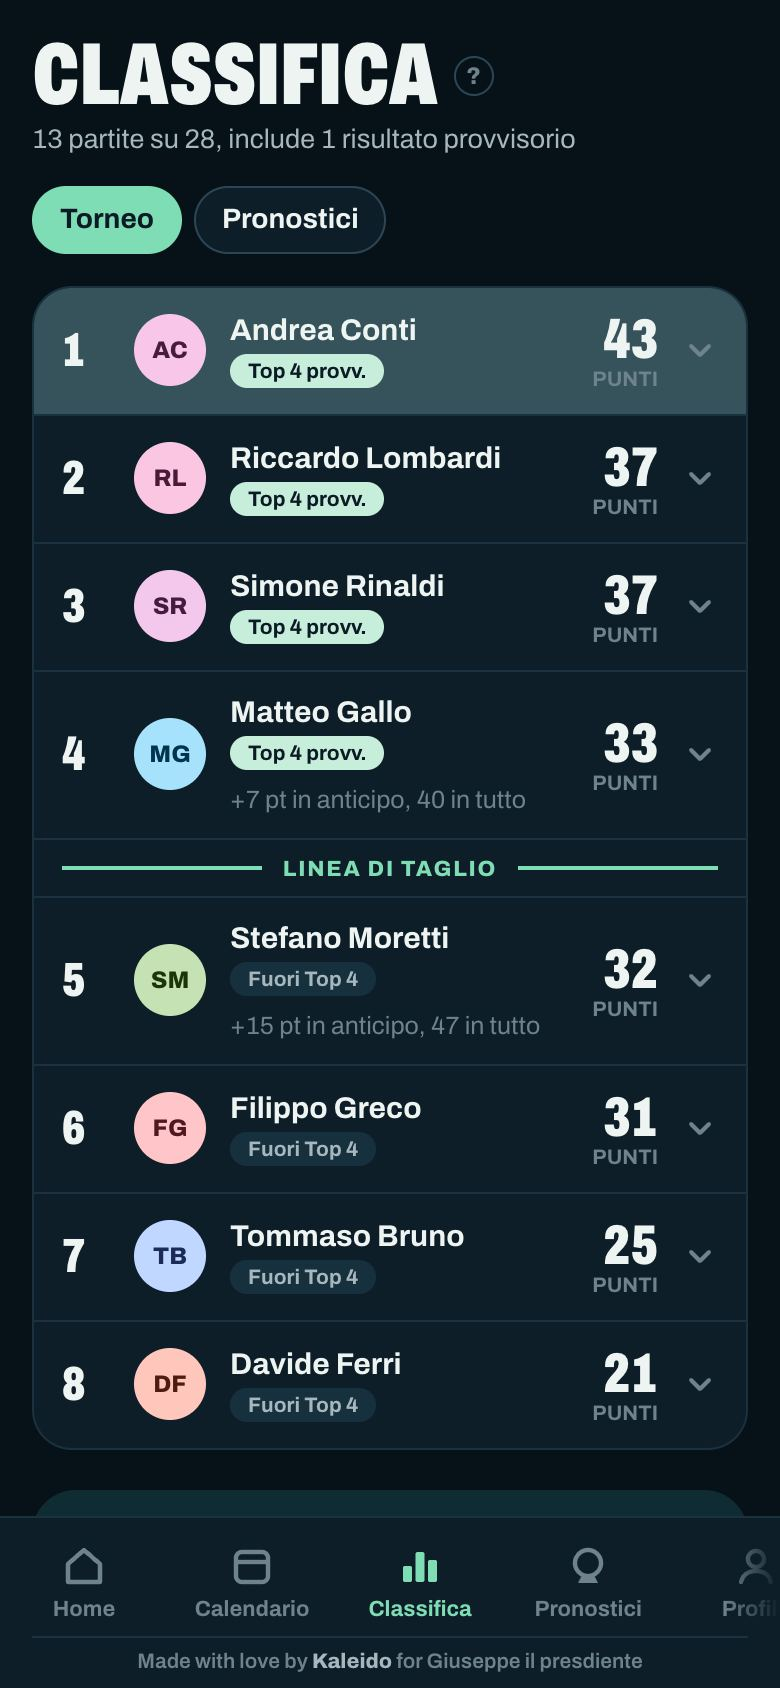
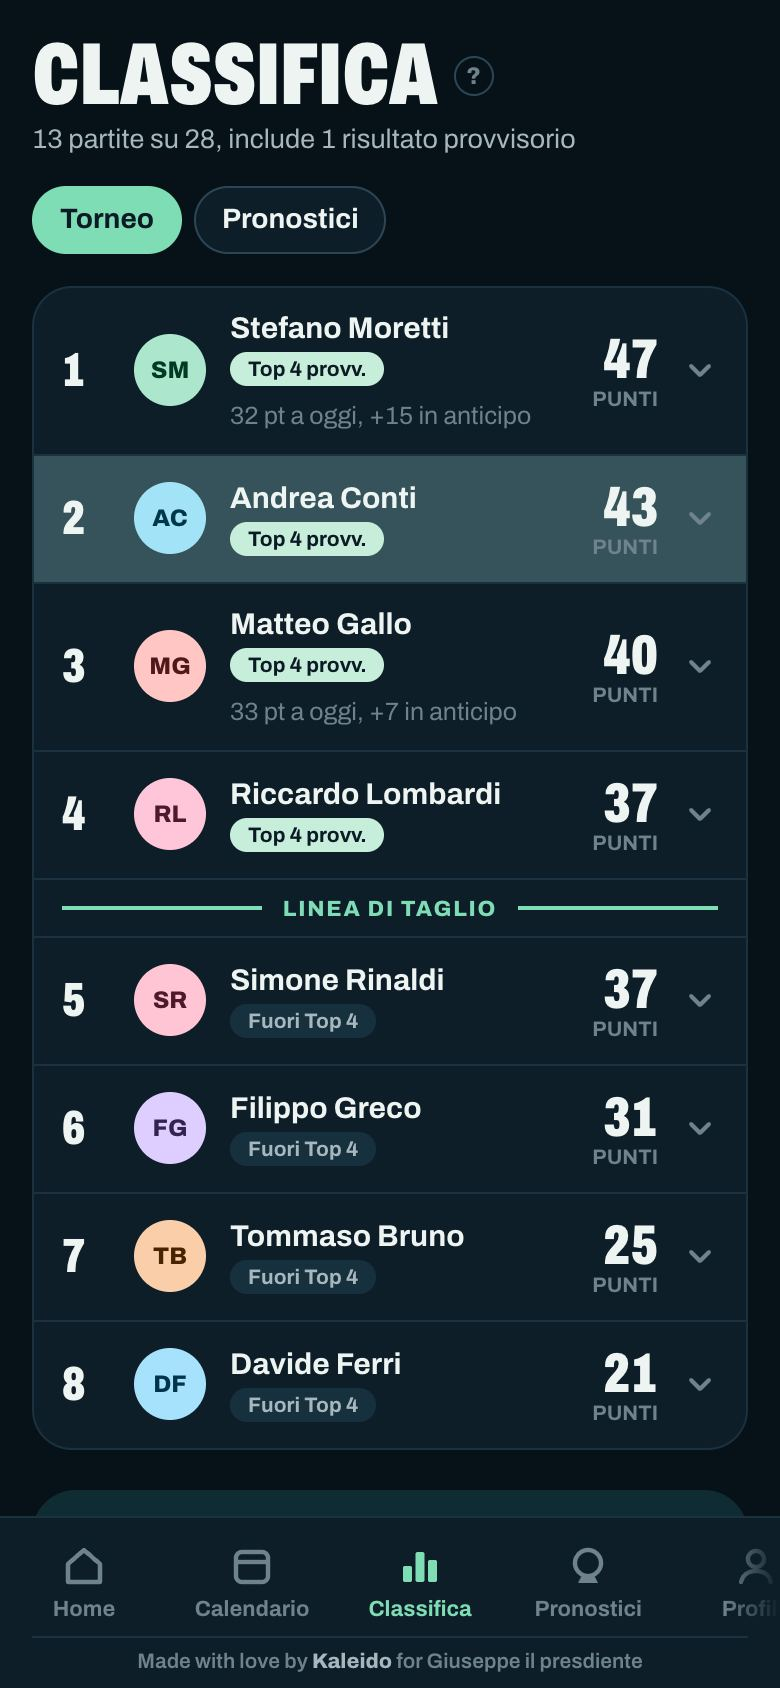
Classifica ordinata per totale, punti a oggi come seconda colonna (D-078)
Le partite giocate in anticipo contano subito in classifica, andamento e
simulatore. Finché la loro giornata non è iniziata, accanto al totale ("Tot")
compare la colonna "Pt" con i punti a oggi; nelle schede "N pt a oggi, +M in
anticipo". Guida, screenshot e brain aggiornati.

diff --git a/apps/web/src/pages/Standings.tsx b/apps/web/src/pages/Standings.tsx
@@ -37,7 +37,7 @@ export function StandingsPage() {
   const archived = data.season.status === 'ARCHIVED';
   const champion = data.season.championPlayerId ? players.get(data.season.championPlayerId) : undefined;
   const q = data.season.qualifiers;
-  // partite giocate in anticipo (D-077): fuori dall'ordine finché non inizia la loro giornata, i punti a parte
+  // partite giocate in anticipo (D-077): l'ordine è sul totale, accanto i punti "a oggi" (senza le giornate non ancora iniziate)
   const anyAhead = data.standings.some((r) => r.aheadPlayed > 0);
 
   return (
@@ -86,11 +86,11 @@ export function StandingsPage() {
                     <th style={{ textAlign: 'left', padding: '14px 10px 14px 18px' }}>#</th>
                     <th style={{ textAlign: 'left', padding: '14px 10px' }}>Giocatore</th>
                     <th style={{ padding: '14px 10px' }}>
-                      <ColumnTip label="Pt" title="Punti" />
+                      {anyAhead ? <ColumnTip label="Tot" title="Punti di tutte le partite giocate" /> : <ColumnTip label="Pt" title="Punti" />}
                     </th>
                     {anyAhead && (
                       <th style={{ padding: '14px 10px' }}>
-                        <ColumnTip label="Tot" title="Punti con le partite in anticipo" />
+                        <ColumnTip label="Pt" title="Punti a oggi, senza le partite in anticipo" />
                       </th>
                     )}
                     {COLUMNS.map((c, i) => (
@@ -117,7 +117,7 @@ export function StandingsPage() {
                         </td>
                         <td style={{ textAlign: 'center', padding: '0 10px', fontWeight: 900, fontStretch: '70%', fontSize: 20 }}>{r.points}</td>
                         {anyAhead && (
-                          <td style={{ textAlign: 'center', padding: '0 10px', color: 'var(--ink2)', fontWeight: r.aheadPlayed > 0 ? 800 : 400 }}>{r.points + r.aheadPoints}</td>
+                          <td style={{ textAlign: 'center', padding: '0 10px', color: 'var(--ink2)', fontWeight: r.aheadPlayed > 0 ? 800 : 400 }}>{r.points - r.aheadPoints}</td>
                         )}
                         {COLUMNS.map((c, i) => (
                           <td key={c.key} style={{ textAlign: 'center', color: 'var(--ink2)', padding: i === COLUMNS.length - 1 ? '0 18px 0 10px' : '0 10px' }}>
@@ -149,7 +149,7 @@ export function StandingsPage() {
                           {q > 0 && <ZonePill zone={r.zone} qualifiers={q} final={archived} />}
                           {r.aheadPlayed > 0 && (
                             <span className="faint" style={{ fontSize: 12.5 }}>
-                              +{r.aheadPoints} pt in anticipo, {r.points + r.aheadPoints} in tutto
+                              {r.points - r.aheadPoints} pt a oggi, +{r.aheadPoints} in anticipo
                             </span>
                           )}
                         </span>
@@ -190,8 +190,8 @@ export function StandingsPage() {
         </div>
         <div style={{ fontSize: 12.5, lineHeight: 1.45, color: 'rgba(255,255,255,.75)', borderTop: '1px solid rgba(255,255,255,.14)', paddingTop: 10 }}>
           Compensazione: se chi vince al super tie break ha fatto meno game, riceve la differenza. Es. 0-6 6-4 10-8: vincitore 13, sconfitto 10. A pari
-          punti conta lo scontro diretto; tra tre o più, i punti negli scontri tra loro e poi la differenza game. Una partita giocata in anticipo
-          entra in classifica quando inizia la sua giornata.{q > 0 && ` I primi ${q} vanno alla fase finale.`}
+          punti conta lo scontro diretto; tra tre o più, i punti negli scontri tra loro e poi la differenza game. Le partite giocate in anticipo
+          contano subito; senza di loro restano i punti a oggi.{q > 0 && ` I primi ${q} vanno alla fase finale.`}
         </div>
       </div>
         </>

diff --git a/packages/shared/test/standings.test.ts b/packages/shared/test/standings.test.ts
@@ -121,7 +121,7 @@ describe('spareggi', () => {
 });
 
 describe('partite giocate in anticipo (D-077)', () => {
-  // giuseppe gioca e perde in anticipo tre partite di giornate future: i game fatti non lo portano in testa
+  // giuseppe gioca e perde in anticipo tre partite di giornate future: contano subito, e hanno anche un conto a parte
   const ahead = (m: StandingsMatch): StandingsMatch => ({ ...m, ahead: true });
   const rows = computeStandings(PLAYERS, [
     match('marco', 'michele', [6, 1], [6, 3]),
@@ -131,13 +131,12 @@ describe('partite giocate in anticipo (D-077)', () => {
   ]);
   const by = (id: string) => rows.find((r) => r.playerId === id)!;
 
-  it('non contano in punti, partite e scontri diretti', () => {
-    expect(by('giuseppe')).toMatchObject({ points: 0, played: 0, gamesWon: 0, position: 3 });
-    expect(by('luca')).toMatchObject({ points: 0, played: 0 });
-    expect(by('marco')).toMatchObject({ points: 15, position: 1 });
+  it('contano in classifica come le altre', () => {
+    expect(by('giuseppe')).toMatchObject({ points: 24, played: 3, lost: 3, position: 1 });
+    expect(by('marco')).toMatchObject({ points: 15 });
   });
 
-  it('i loro punti restano a parte', () => {
+  it('i loro punti si contano anche a parte, per i punti a oggi', () => {
     expect(by('giuseppe')).toMatchObject({ aheadPlayed: 3, aheadPoints: 24 });
     expect(by('luca')).toMatchObject({ aheadPlayed: 1, aheadPoints: 15 });
     expect(by('marco')).toMatchObject({ aheadPlayed: 0, aheadPoints: 0 });

diff --git a/apps/web/src/pages/Guide.tsx b/apps/web/src/pages/Guide.tsx
@@ -137,7 +137,7 @@ const SECTIONS: Section[] = [
     images: ['classifica'],
     body: (
       <p>
-        I giocatori in ordine di punti. A pari punti conta lo scontro diretto; tra tre o più, i punti negli scontri tra loro e poi la differenza game. Una partita giocata in anticipo, prima della settimana della sua giornata, entra in classifica quando quella settimana inizia: fino ad allora i suoi punti si vedono a parte (“+ pt in anticipo” e, su computer, la colonna “Tot”). Tocca un giocatore per vedere i dettagli. La linea segna chi andrebbe alla fase finale. In alto puoi passare alla classifica dei{' '}
+        I giocatori in ordine di punti. A pari punti conta lo scontro diretto; tra tre o più, i punti negli scontri tra loro e poi la differenza game. Una partita giocata in anticipo, prima della settimana della sua giornata, conta subito; finché quella settimana non inizia vedi anche i punti “a oggi”, senza le partite in anticipo (sotto il nome e, su computer, nella colonna “Pt” accanto al totale “Tot”). Tocca un giocatore per vedere i dettagli. La linea segna chi andrebbe alla fase finale. In alto puoi passare alla classifica dei{' '}
         <a href="#pronostici">pronostici</a>.
       </p>
     ),

diff --git a/apps/web/src/data.ts b/apps/web/src/data.ts
@@ -174,19 +174,13 @@ export function playedOn(m: Match, rounds: Round[]): string | null {
   return endsOn && endsOn < submitted ? endsOn : submitted;
 }
 
-/** Partita della giornata non ancora iniziata (giocata in anticipo): fuori classifica finché non arriva la sua settimana (D-077) */
-export function isAhead(m: Pick<Match, 'round' | 'phase'>, data: Pick<SeasonOverview, 'rounds' | 'season'>) {
-  const startsOn = data.rounds.find((r) => r.number === m.round && r.phase === m.phase)?.startsOn;
-  return data.season.status === 'ACTIVE' && !!startsOn && startsOn > today();
-}
-
 /** Classifica a fine di ogni giornata del girone iniziata finora (D-064) */
 export function timelineFor(data: SeasonOverview) {
   const matches = data.matches.flatMap((m) => {
     const r = m.result;
     const day = playedOn(m, data.rounds);
     return m.phase === 'ROUND_ROBIN' && r && day && COUNTS_IN_STANDINGS.includes(r.status)
-      ? [{ playerAId: m.playerAId, playerBId: m.playerBId, score: r, playedOn: day, roundStartsOn: data.rounds.find((x) => x.number === m.round && x.phase === m.phase)?.startsOn }]
+      ? [{ playerAId: m.playerAId, playerBId: m.playerBId, score: r, playedOn: day }]
       : [];
   });
   return standingsTimeline(

diff --git a/apps/web/src/pages/ScheduleSheet.tsx b/apps/web/src/pages/ScheduleSheet.tsx
@@ -65,7 +65,7 @@ export function ScheduleSheet({
 
   const date = otherOn ? otherDate || null : day;
   const outside = !!date && date > round.endsOn;
-  // prima della settimana si può (partita anticipata): conta in classifica da quando inizia la sua giornata (D-077)
+  // prima della settimana si può: partita in anticipo (D-077)
   const ahead = !!date && date < round.startsOn;
   const place = venueOn ? venue.trim().length >= 2 : !!clubId;
   // superfici tra cui scegliere: quelle del circolo; con un campo fuori lista tutte (facoltativa)
@@ -146,7 +146,7 @@ export function ScheduleSheet({
             )}
           </div>
           {outside && <div className="note note-warn">È dopo la settimana della giornata {round.number}: la partita risulterà rinviata.</div>}
-          {ahead && <div className="note note-info">Partita in anticipo: conta in classifica da {formatDayWithWeekday(round.startsOn)}, quando inizia la giornata {round.number}.</div>}
+          {ahead && <div className="note note-info">Partita in anticipo: la giornata {round.number} inizia {formatDayWithWeekday(round.startsOn)}.</div>}
         </div>
 
         <div style={{ display: 'flex', flexDirection: 'column', gap: 8 }}>

diff --git a/packages/shared/src/standings.ts b/packages/shared/src/standings.ts
@@ -9,8 +9,8 @@ export interface StandingsMatch {
   playerBId: string;
   score: MatchScoreInput;
   /**
-   * giocata in anticipo, prima che inizi la sua giornata (D-077): non conta in classifica
-   * finché non arriva la sua settimana; i punti finiscono solo in `aheadPoints`
+   * giocata in anticipo, prima che inizi la sua giornata (D-077): conta in classifica come le altre,
+   * e i suoi punti si contano anche in `aheadPoints` (i punti "a oggi" sono `points - aheadPoints`)
    */
   ahead?: boolean;
 }
@@ -32,9 +32,9 @@ export interface StandingRow {
   /** bonus vittoria + compensazioni */
   bonus: number;
   zone: Zone;
-  /** partite giocate in anticipo, non ancora in classifica (D-077) */
+  /** partite giocate in anticipo, di giornate non ancora iniziate (D-077), già comprese nei totali */
   aheadPlayed: number;
-  /** punti di quelle partite: con `points` fanno i punti di tutte le partite giocate */
+  /** punti di quelle partite, già compresi in `points` */
   aheadPoints: number;
 }
 
@@ -94,7 +94,6 @@ export function computeStandings(
       b.aheadPlayed++;
       a.aheadPoints += ev.pointsA;
       b.aheadPoints += ev.pointsB;
-      continue;
     }
 
     a.played++;

diff --git a/packages/shared/src/timeline.ts b/packages/shared/src/timeline.ts
@@ -5,8 +5,6 @@ import { computeStandings, type StandingRow, type StandingsMatch } from './stand
 export interface TimelineMatch extends StandingsMatch {
   /** giorno in cui si è giocata (YYYY-MM-DD) */
   playedOn: string;
-  /** primo giorno della sua giornata: una partita giocata in anticipo conta da lì (D-077) */
-  roundStartsOn?: string;
 }
 
 export interface TimelinePoint {
@@ -17,7 +15,7 @@ export interface TimelinePoint {
 /**
  * Classifica a fine giornata, per le giornate già iniziate (`today` compreso).
  * Conta le partite giocate entro la fine della settimana, qualunque sia la loro giornata: un recupero
- * pesa nella settimana in cui si gioca, una partita in anticipo in quella della sua giornata.
+ * (o un anticipo) pesa nella settimana in cui si gioca.
  */
 export function standingsTimeline(
   playerIds: string[],
@@ -33,7 +31,7 @@ export function standingsTimeline(
       round: r.number,
       rows: computeStandings(
         playerIds,
-        matches.filter((m) => m.playedOn <= r.endsOn && (!m.roundStartsOn || m.roundStartsOn <= r.endsOn)),
+        matches.filter((m) => m.playedOn <= r.endsOn),
         { qualifiers },
       ),
     }));

diff --git a/apps/web/src/components/Simulator.tsx b/apps/web/src/components/Simulator.tsx
@@ -3,7 +3,7 @@
 import { useState } from 'react';
 import { COUNTS_IN_STANDINGS, evaluateMatch, SCENARIOS, scenarioScore, standingsIf } from '@tentennis/shared';
 import type { Match, SeasonOverview } from '../api';
-import { isAhead, opponentOf, playerIndex } from '../data';
+import { opponentOf, playerIndex } from '../data';
 import { Avatar, Collapse } from './ui';
 
 /** Freccia e numero di posizioni guadagnate o perse */
@@ -22,7 +22,7 @@ export function Simulator({ match, data, myId }: { match: Match; data: SeasonOve
   const opts = { qualifiers: data.season.qualifiers };
   const played = data.matches
     .filter((m) => m.phase === 'ROUND_ROBIN' && m.result && COUNTS_IN_STANDINGS.includes(m.result.status))
-    .map((m) => ({ playerAId: m.playerAId, playerBId: m.playerBId, score: m.result!, ahead: isAhead(m, data) }));
+    .map((m) => ({ playerAId: m.playerAId, playerBId: m.playerBId, score: m.result! }));
   const now = (id: string) => data.standings.find((r) => r.playerId === id)!;
 
   const rows = SCENARIOS.map((s) => {

diff --git a/apps/api/src/routes/admin-seasons.ts b/apps/api/src/routes/admin-seasons.ts
@@ -141,8 +141,7 @@ export async function adminSeasonRoutes(app: FastifyInstance) {
   app.post<{ Params: { id: string } }>('/api/admin/seasons/:id/archive', async (req, reply) => {
     const season = await db.season.findUnique({ where: { id: req.params.id } });
     if (!season) return reply.code(404).send({ error: 'Torneo non trovato' });
-    // la classifica finale, con tutte le partite (anche quelle giocate in anticipo, D-077)
-    const { standings } = await seasonOverview({ ...season, status: 'ARCHIVED' });
+    const { standings } = await seasonOverview(season);
     const leaders = standings.filter((s) => s.position === 1);
     const championPlayerId = leaders.length === 1 && leaders[0]!.points > 0 ? leaders[0]!.playerId : null;
     await db.season.update({ where: { id: season.id }, data: { status: 'ARCHIVED', championPlayerId } });

diff --git a/apps/api/src/views.ts b/apps/api/src/views.ts
@@ -140,7 +140,7 @@ export async function seasonOverview(season: Season, viewerPlayerId: string | nu
     ...toView(m),
     predictions: predictionsView(m, predsOf(m.id), viewerPlayerId, playerIds, season.status === 'ACTIVE'),
   }));
-  // a torneo concluso contano tutte; mentre è in corso quelle in anticipo aspettano la loro giornata (D-077)
+  // la classifica conta tutte le partite giocate; quelle in anticipo hanno anche un conto a parte, per i punti "a oggi" (D-077)
   const today = romeDay(new Date());
   const ahead = (startsOn: string) => season.status === 'ACTIVE' && startsOn > today;
   const standings = computeStandings(

diff --git a/packages/shared/test/timeline.test.ts b/packages/shared/test/timeline.test.ts
@@ -22,10 +22,4 @@ describe('standingsTimeline', () => {
     expect(t[1]!.rows.find((r) => r.playerId === 'p3')!.points).toBe(15);
     expect(t[0]!.rows.find((r) => r.playerId === 'p3')!.played).toBe(0);
   });
-
-  it('una partita in anticipo conta dalla settimana della sua giornata (D-077)', () => {
-    const early = { ...win('p1', 'p2', '2026-10-14'), roundStartsOn: '2026-10-26' };
-    const t = standingsTimeline(['p1', 'p2'], [early], ROUNDS, '2026-10-28');
-    expect(t.map((p) => p.rows.find((r) => r.playerId === 'p1')!.played)).toEqual([0, 0, 1]);
-  });
 });

diff --git a/brain/00-history-decision-log.md b/brain/00-history-decision-log.md
@@ -117,7 +117,8 @@ Registro cronologico di eventi, decisioni e domande aperte. Le voci nuove si agg
 | D-074 | 27/10/2026 | **Deploy automatico con Plesk**: a ogni push su `main` il webhook di GitHub fa fare a Plesk il pull in `/var/www/vhosts/tennislove.it/httpdocs` e l'azione di deploy ricostruisce il container (`docker compose -p tennislove -f docker-compose.prod.yml up -d --build`), come utente `tennislove.it` nel gruppo `docker`. Il progetto Docker del compose si chiama `tennislove`, come quello che gira sul server (prima `tentennis-prod`: gli script di backup, password e codice non lo trovavano). Procedura in `05-runbook.md` | Richiesta dell'utente: aggiornare il server senza entrarci | Accettata |
 | D-075 | 27/10/2026 | **Superficie dei campi**: ogni circolo ha le sue superfici (terra rossa, cemento, erba sintetica, sintetico; `Club.surfaces`), impostate dal gestionale in Circoli. Programmando la partita si sceglie tra quelle del circolo (obbligatoria se sono più d'una, automatica se è una sola; facoltativa con un campo fuori lista) e compare nella scheda partita, nell'email e nel file del calendario (`Match.surface`). "Sintetico" in attesa del nome esatto (tipo Mantoflex) | Proposta di Giuseppe: a Foligno si gioca su terra e cemento, alla Gryphus solo su cemento | Accettata |
 | D-076 | 29/10/2026 | **Togliere una partita dal programma**: dalla scheda di una partita programmata e non ancora giocata, i due giocatori possono toccare "Togli dal programma" (si conferma in un pannello che sale dal basso); nel gestionale, nella tabella delle partite senza risultato, l'amministratore ha la stessa azione (icona del calendario barrato, al secondo clic). Data, ora, circolo e superficie si cancellano e la partita torna da programmare (da recuperare se la settimana è finita). Nessuna email (decisione dell'utente): l'evento dal calendario lo tolgono i giocatori. `DELETE /api/matches/:id/schedule`, nell'audit log come `unschedule` | Richiesta dell'utente: poter sprogrammare una partita già programmata | Accettata |
-| D-077 | 22/11/2026 | **Partite in anticipo e telefono dei circoli**: una partita si può programmare in qualunque data, anche prima della settimana della sua giornata (prima il form lo impediva); vale anche per spostare una prenotazione già fatta, finché non c'è il risultato. Una partita giocata in anticipo **entra in classifica quando inizia la sua giornata**: fino ad allora i suoi punti stanno a parte (`StandingRow.aheadPoints`), con la colonna "Tot" in classifica e "+N pt in anticipo" nelle schede; anche l'andamento la conta da quella settimana. A torneo concluso contano tutte. **Telefono dei circoli** (`Club.phone`), dal gestionale, mostrato nella scelta del circolo quando si programma e nella scheda della partita programmata, accanto alla superficie (a tutta larghezza se manca uno dei due): si tocca e si chiama | Richiesta dei giocatori. Senza la regola chi gioca (e perde) tutte le partite in anticipo salirebbe in classifica coi soli game. **La regola di classifica va confermata con Giuseppe** | Accettata (classifica da confermare con Giuseppe) |
+| D-077 | 22/11/2026 | **Partite in anticipo e telefono dei circoli**: una partita si può programmare in qualunque data, anche prima della settimana della sua giornata (prima il form lo impediva); vale anche per spostare una prenotazione già fatta, finché non c'è il risultato. Una partita giocata in anticipo **entra in classifica quando inizia la sua giornata**: fino ad allora i suoi punti stanno a parte (`StandingRow.aheadPoints`), con la colonna "Tot" in classifica e "+N pt in anticipo" nelle schede; anche l'andamento la conta da quella settimana. A torneo concluso contano tutte. **Telefono dei circoli** (`Club.phone`), dal gestionale, mostrato nella scelta del circolo quando si programma e nella scheda della partita programmata, accanto alla superficie (a tutta larghezza se manca uno dei due): si tocca e si chiama | Richiesta dei giocatori. Senza la regola chi gioca (e perde) tutte le partite in anticipo salirebbe in classifica coi soli game. **La regola di classifica va confermata con Giuseppe** | Accettata; classifica sostituita da D-078 |
+| D-078 | 22/11/2026 | **Classifica ordinata per totale**: le partite giocate in anticipo contano subito in classifica (punti, partite, scontri diretti, andamento nella settimana in cui si giocano). Finché la loro giornata non è iniziata, accanto al totale ("Tot", che decide l'ordine) c'è la colonna "Pt" con i punti a oggi, senza di loro; nelle schede "N pt a oggi, +M in anticipo". Sostituisce la parte sulla classifica di D-077 | Decisione dell'utente dopo averla provata | Accettata |
 
 ## Domande aperte
 
